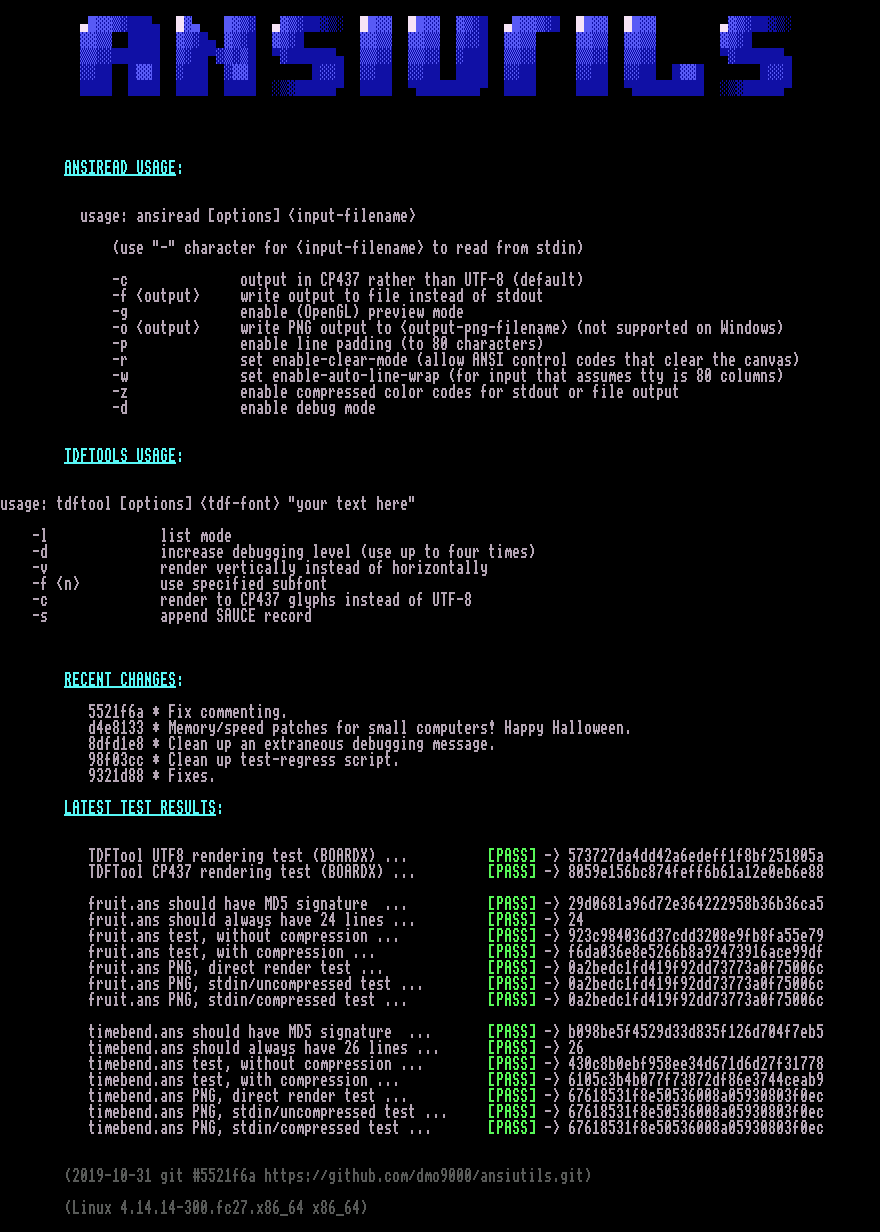
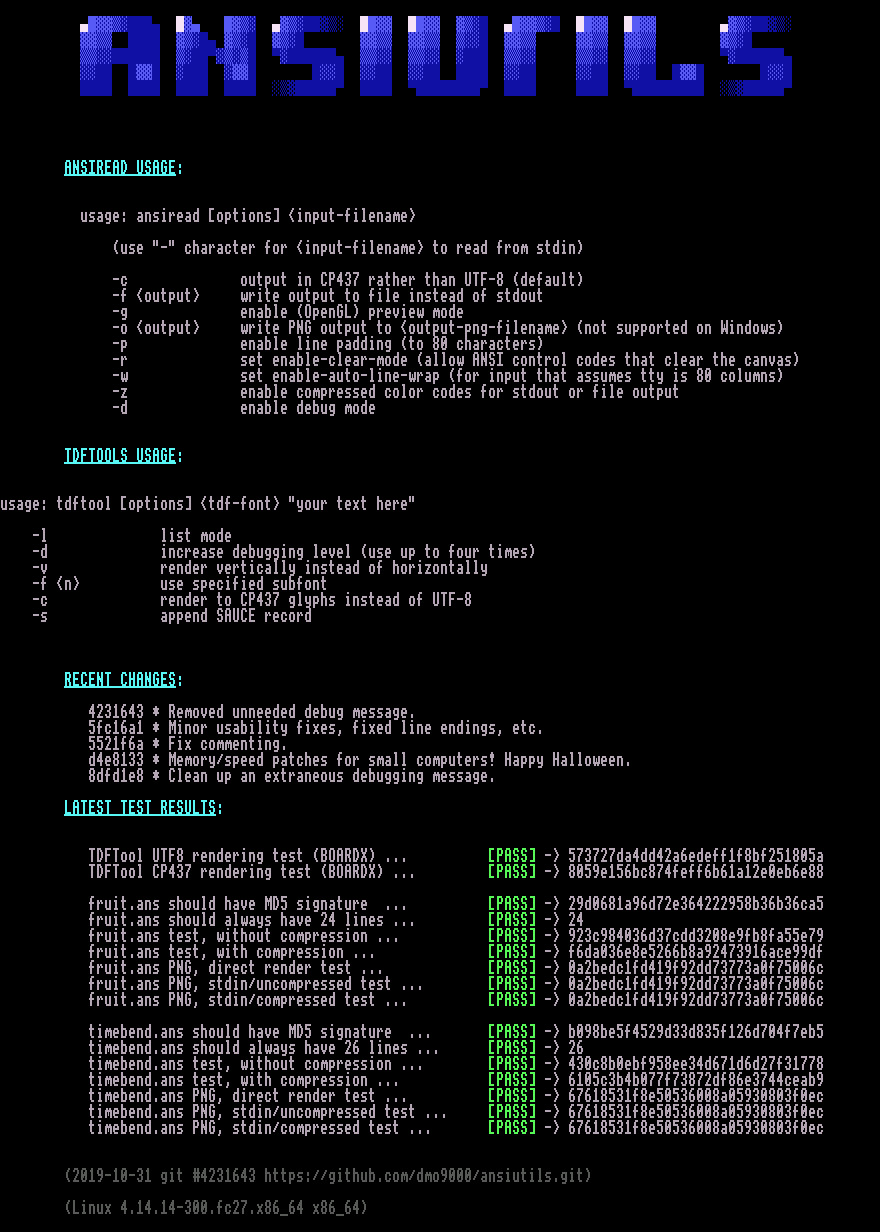
Mouse coordinates now correct for resized windows.

Changed region(s): [[0.092, 0.5552, 0.7057, 0.6477]]

diff --git a/ansiutils.html b/ansiutils.html
@@ -52,11 +52,11 @@
 
 	<span style="color:aqua;"></span><span style="text-decoration:underline;color:aqua;"></span><span style="text-decoration:underline;font-weight:bold;color:aqua;">RECENT CHANGES</span><span style="font-weight:bold;color:aqua;">:</span><span style="color:aqua;"></span>
 
+<span style="color:white;background-color:black;">           4231643 * Removed unneeded debug message.</span>
+<span style="color:white;background-color:black;">           5fc16a1 * Minor usability fixes, fixed line endings, etc.</span>
 <span style="color:white;background-color:black;">           5521f6a * Fix commenting.</span>
 <span style="color:white;background-color:black;">           d4e8133 * Memory/speed patches for small computers! Happy Halloween.</span>
 <span style="color:white;background-color:black;">           8dfd1e8 * Clean up an extraneous debugging message.</span>
-<span style="color:white;background-color:black;">           98f03cc * Clean up test-regress script.</span>
-<span style="color:white;background-color:black;">           9321d88 * Fixes.</span>
 
 	<span style="color:aqua;"></span><span style="text-decoration:underline;color:aqua;"></span><span style="text-decoration:underline;font-weight:bold;color:aqua;">LATEST TEST RESULTS</span><span style="font-weight:bold;color:aqua;">:</span><span style="color:aqua;"></span>
 
@@ -81,7 +81,7 @@
 <span style="color:white;background-color:black;">           timebend.ans PNG, stdin/compressed test ...       </span><span style="color:lime;background-color:black;"></span><span style="font-weight:bold;color:lime;background-color:black;">[PASS]</span><span style="font-weight:bold;color:white;background-color:black;"></span><span style="color:white;background-color:black;"> -&gt; 67618531f8e50536008a05930803f0ec </span>
 <span style="color:white;background-color:black;">           </span>
 
-	<span style="color:dimgray;"></span><span style="font-weight:bold;color:dimgray;">(2019-10-31 git #5521f6a https://github.com/dmo9000/ansiutils.git)</span><span style="color:dimgray;"></span>
+	<span style="color:dimgray;"></span><span style="font-weight:bold;color:dimgray;">(2019-10-31 git #4231643 https://github.com/dmo9000/ansiutils.git)</span><span style="color:dimgray;"></span>
 
 	<span style="color:dimgray;"></span><span style="font-weight:bold;color:dimgray;">(Linux 4.14.14-300.fc27.x86_64 x86_64)</span><span style="color:dimgray;"></span>
                                                                                                               

diff --git a/gfx_opengl.c b/gfx_opengl.c
@@ -47,6 +47,9 @@ pthread_mutex_t gfx_mutex;
 
 uint16_t mouse_x = 0;
 uint16_t mouse_y = 0;
+float mouse_xn = 0.0;
+float mouse_yn = 0.0;
+
 
 //void (* callback)( unsigned char, int, int ) ;
 void process_Normal_Keys(unsigned char key, int x, int y);
@@ -436,13 +439,26 @@ void process_Normal_Keys(unsigned char key, int x, int y)
 void process_Mouse_Move(int x, int y)
 {
 
-    /*
-    fprintf(stderr, "process_Mouse_Move(%d,%d)\n",
-    				x/main_multiplier,
-    				y/main_multiplier);
-    */
-    mouse_x = (uint16_t) (x/2);
-    mouse_y = (uint16_t) (y/2);
+		float xn = 0.0;
+		float yn = 0.0;
+
+		
+		int mwidth = glutGet(GLUT_WINDOW_WIDTH);
+		int mheight = glutGet(GLUT_WINDOW_HEIGHT);
+
+    //fprintf(stderr, "process_Mouse_Move(%d,%d,%d,%d)\n",
+   // 				x, y, mwidth, mheight);
+
+		xn = (float) ((float) x / (float) mwidth);
+		yn = (float) ((float) y / (float) mheight);
+
+//		printf("xn = %f\n", xn);
+//		printf("yn = %f\n", yn);
+
+    mouse_x = (unsigned int) ((float) SCREEN_WIDTH * (float) xn);
+    mouse_y = (unsigned int) ((float) SCREEN_HEIGHT * (float) yn); 
+		//printf("mouse_x = %u\n", mouse_x);
+		//printf("mouse_y = %u\n", mouse_y);
     return;
 }
 
